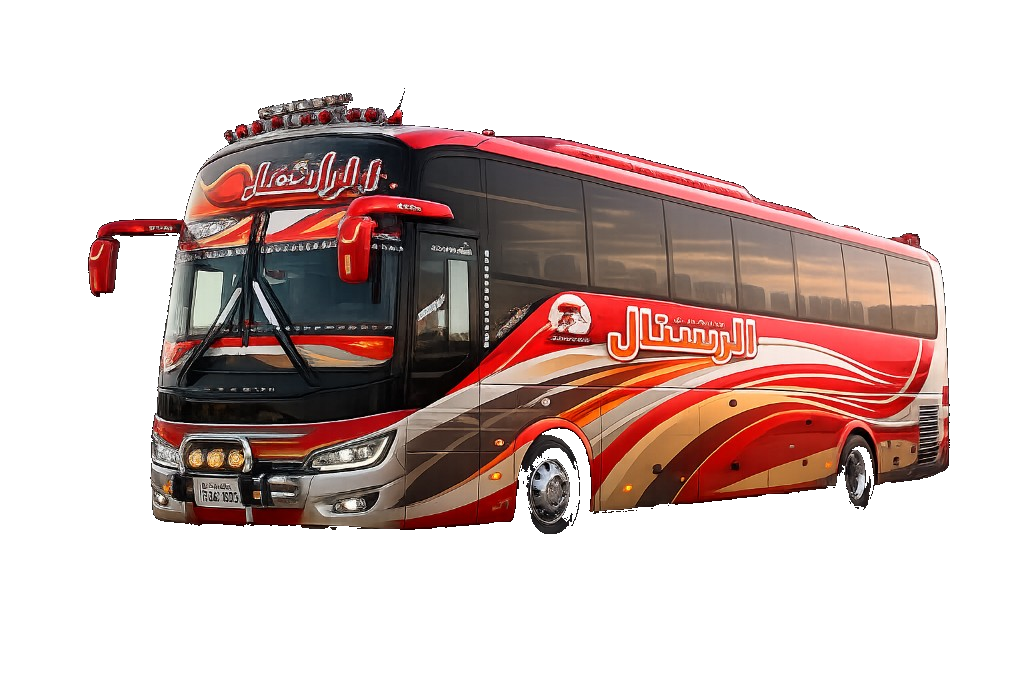
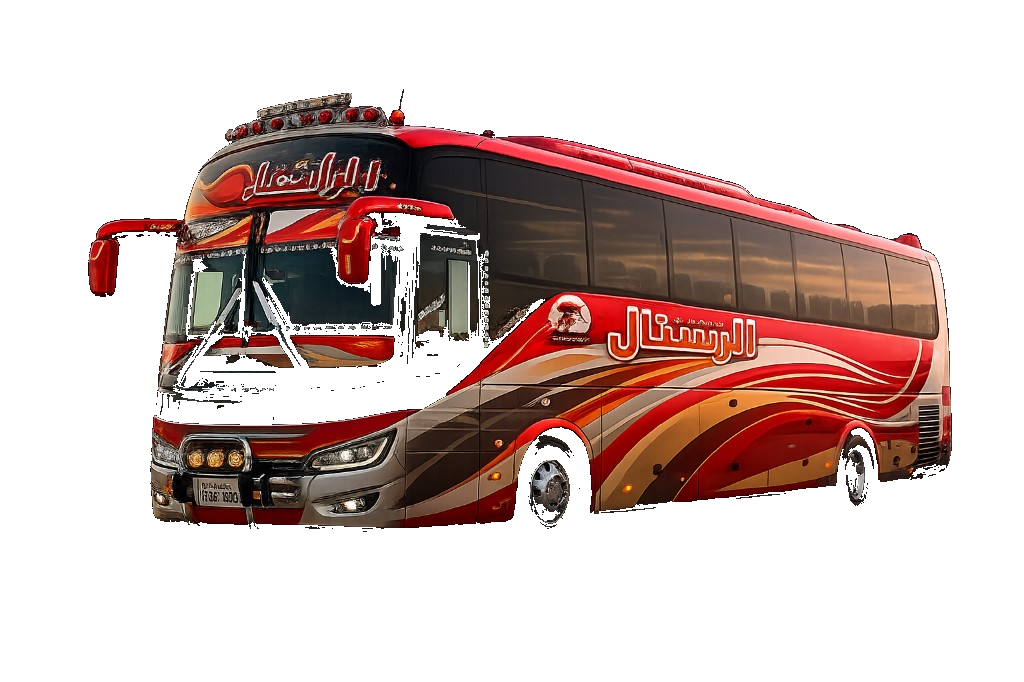
Gallery: replace hero bus asset, transparent BG, bump cache

Changed region(s): [[0.0625, 0.1232, 0.9375, 0.8006]]

diff --git a/starbus/server/src/ui/customer.html b/starbus/server/src/ui/customer.html
@@ -8,7 +8,7 @@
     <title>ستار باص — احجز رحلتك</title>
     <link rel="preload" as="font" type="font/woff2" href="/ui/fonts/cairo-arabic-700.woff2" crossorigin />
     <link rel="preload" as="font" type="font/woff2" href="/ui/fonts/cairo-arabic-400.woff2" crossorigin />
-    <link rel="preload" as="image" href="/ui/images/gallery/bus-1.png?v=20260509-nobg" />
+    <link rel="preload" as="image" href="/ui/images/gallery/bus-1.png?v=20260510-bus-swap" />
     <link rel="stylesheet" href="/ui/tokens.css?v=20260504" />
     <link rel="stylesheet" href="/ui/customer.css?v=20260510-hero-split" />
   </head>
@@ -27,7 +27,7 @@
         </div>
         <div class="hero-modern-visual">
           <div class="hero-gallery" aria-hidden="true">
-            <img class="hero-gallery-active" src="/ui/images/gallery/bus-1.png?v=20260509-nobg" alt="" decoding="async" fetchpriority="high" />
+            <img class="hero-gallery-active" src="/ui/images/gallery/bus-1.png?v=20260510-bus-swap" alt="" decoding="async" fetchpriority="high" />
             <!-- Add more <img src="/ui/images/gallery/bus-2.png" … /> siblings for cross-fade rotation -->
           </div>
         </div>